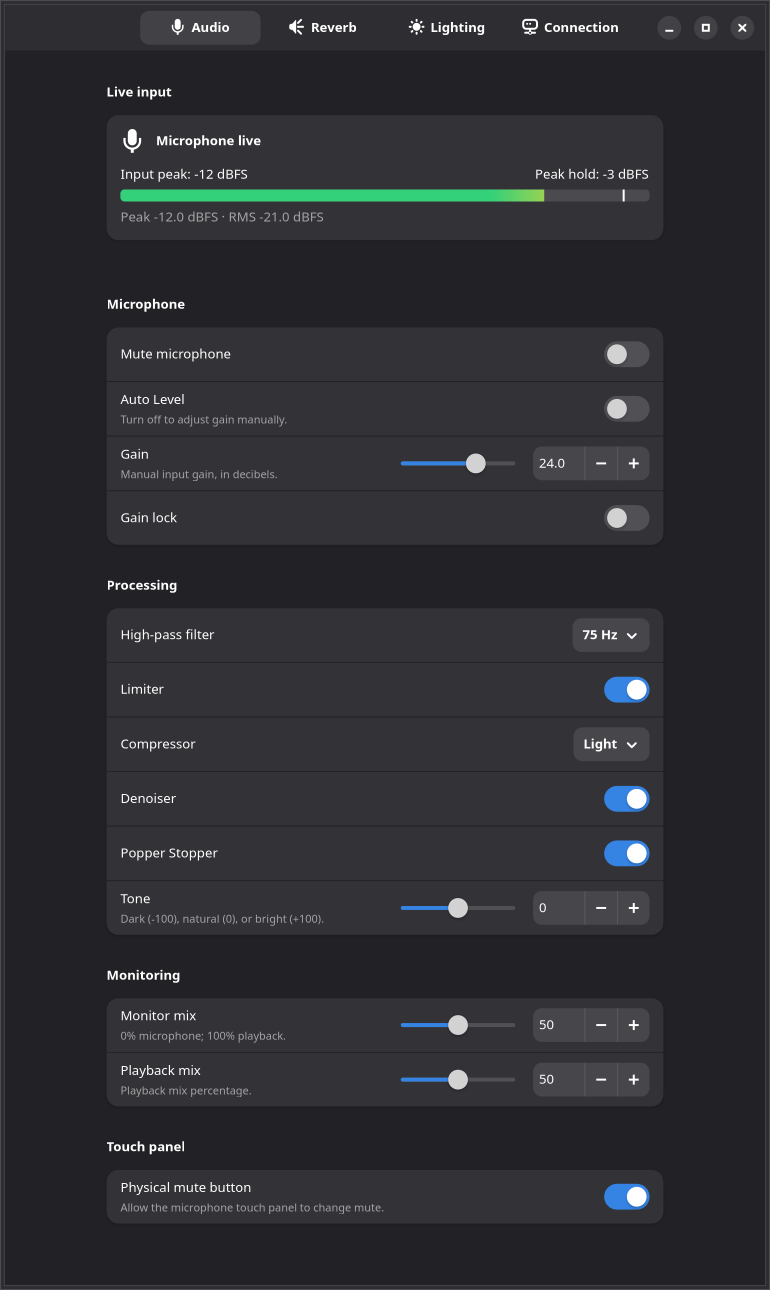
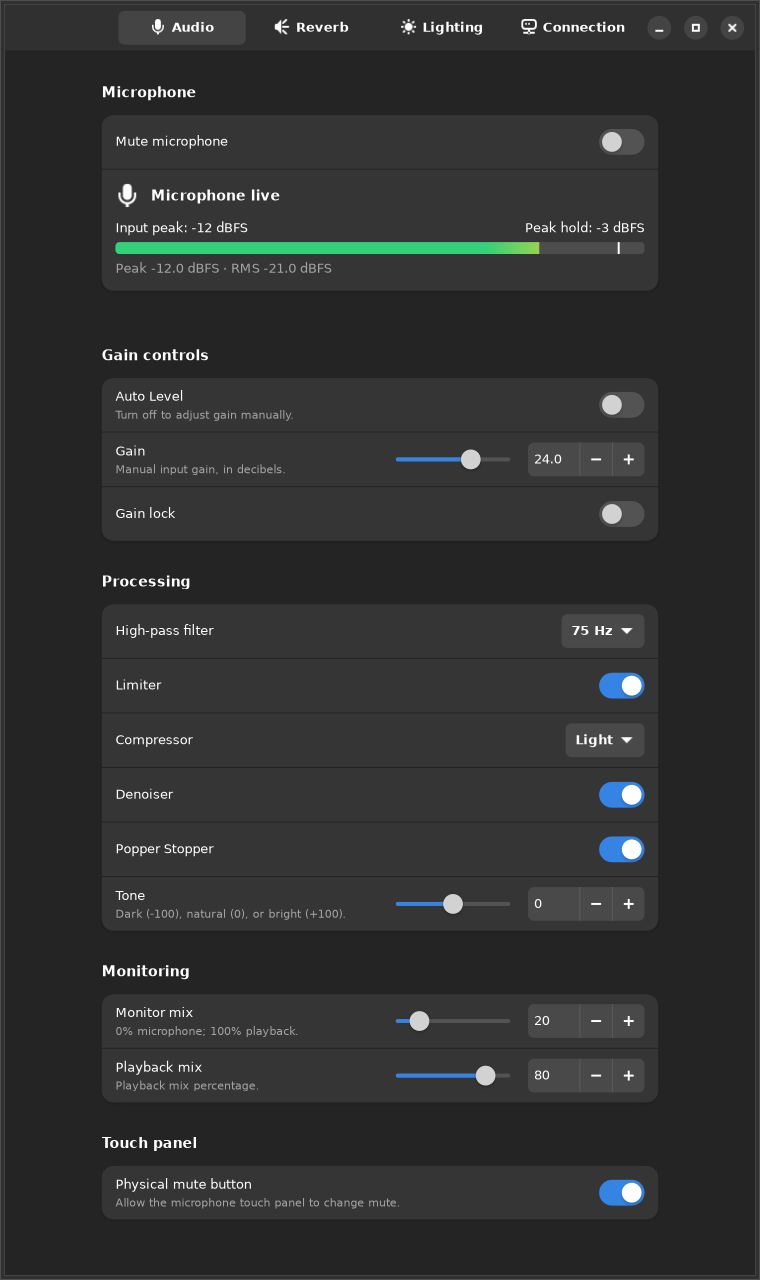
Put hardware mute before GNOME input meters
Keep gain controls below the live meter in the native app and Shell menu. Cover real control order, keyboard access and confirmed state behavior, refresh demo screenshots, and version packages as 0.3.4.

diff --git a/gnome-extension/tests/shell-layout.js b/gnome-extension/tests/shell-layout.js
@@ -80,6 +80,18 @@ function dimensions(extension, before, after) {
 }
 
 function checkContent(extension, meterEnabled, numbers) {
+    const fields = ['muted', 'auto_level', 'gain_db', 'gain_locked'];
+    const [mute, auto, gain, lock] = fields.map(field => {
+        const matches = extension._bindings.filter(binding => binding.field === field);
+        equal(matches.length, 1, `Exactly one ${field} control`);
+        return matches[0].item;
+    });
+    const rows = [mute, extension._meterRow, extension._meterDetail, extension._meterSwitch, auto, gain, lock];
+    for (let i = 1; i < rows.length; i++) {
+        const prior = allocation(rows[i - 1]), next = allocation(rows[i]);
+        assert(prior.y + prior.height <= next.y,
+            'Actual popup allocation must be Mute, live meter, then gain controls');
+    }
     equal(extension._levelLabel.visible, meterEnabled && numbers, 'Numeric preference');
     if (extension._levelLabel.visible)
         textFits(extension._levelLabel);
@@ -164,6 +176,34 @@ async function screenshot(extension) {
     return metrics;
 }
 
+async function checkControls(extension) {
+    const sent = [];
+    extension._client = {send: (action, params) => { sent.push({action, params}); return true; }};
+    const mute = extension._bindings.find(binding => binding.field === 'muted');
+    const gain = extension._bindings.find(binding => binding.field === 'gain_db');
+    extension._update({connection: 'connected', state: demoState});
+    mute.item.activate({type: () => Clutter.EventType.KEY_PRESS, get_key_symbol: () => Clutter.KEY_space});
+    equal(sent, [{action: 'set_mute', params: {value: true}}], 'Hardware mute command');
+    equal(extension._status.label.text, 'MV7+ microphone live', 'Mute must wait for hardware confirmation');
+    extension._update({connection: 'connected', state: {...demoState, muted: true}});
+    equal(extension._status.label.text, 'MV7+ microphone muted', 'Confirmed hardware mute');
+    for (const flags of [{auto_level: true}, {gain_locked: true}]) {
+        extension._update({connection: 'connected', state: {...demoState, ...flags}});
+        assert(!gain.slider.reactive && !gain.slider.can_focus, 'Locked/automatic gain must stay disabled');
+        extension._send(gain, 15);
+        equal(sent.length, 1, 'Disabled gain must not send a command');
+    }
+    extension._update({connection: 'connected', state: demoState});
+    extension._debounce(gain, 15);
+    extension._update({connection: 'disconnected', state: null});
+    await delay(250);
+    equal(sent.length, 1, 'Disconnect must cancel pending gain writes');
+    equal(extension._pending.size, 0, 'Disconnect must clear pending writes');
+    assert(!mute.item.reactive, 'Disconnected mute must be disabled');
+    extension._client = null;
+    extension._update({connection: 'connected', state: demoState});
+}
+
 export async function run(extension) {
     Main.overview.hide();
     extension._fillIcon.connect('repaint', actor => painted.set(actor, actor.get_surface_size()));
@@ -183,6 +223,7 @@ export async function run(extension) {
     let samples = 0;
     extension._button.menu.open();
     await delay(500);
+    await checkControls(extension);
     for (const [scale, large] of [[1, false], [2, false], [2, true], [1, true], [1, false]]) {
         context.scale_factor = scale;
         context.set_font(large ? Pango.FontDescription.from_string('DejaVu Serif 15') : originalFont);
@@ -263,6 +304,15 @@ export async function run(extension) {
         equal(relayouts, 0, 'Idle relayout loop');
         extension._button.disconnect(handler);
         const scroll = extension._button.menu.box.get_parent();
+        const mute = extension._bindings.find(binding => binding.field === 'muted').item;
+        const auto = extension._bindings.find(binding => binding.field === 'auto_level').item;
+        mute.grab_key_focus();
+        assert(extension._button.menu.box.navigate_focus(mute, St.DirectionType.TAB_FORWARD, false),
+            'Keyboard navigation from mute failed');
+        assert(global.stage.get_key_focus() === extension._meterSwitch, 'Meter toggle follows hardware mute');
+        assert(extension._button.menu.box.navigate_focus(extension._meterSwitch, St.DirectionType.TAB_FORWARD, false),
+            'Keyboard navigation from meter toggle failed');
+        assert(global.stage.get_key_focus() === auto, 'Auto Level follows the live input controls');
         const lastItem = extension._button.menu.box.get_last_child();
         lastItem.grab_key_focus();
         await delay(200);
@@ -270,8 +320,11 @@ export async function run(extension) {
         const focused = allocation(lastItem);
         assert(focused.y >= viewport.y && focused.y + focused.height <= viewport.y + viewport.height,
             'Keyboard focus did not scroll the last menu item into view');
-        extension._meterSwitch.grab_key_focus();
+        mute.grab_key_focus();
         await delay(200);
+        const muteBox = allocation(mute);
+        assert(muteBox.y >= viewport.y && muteBox.y + muteBox.height <= viewport.y + viewport.height,
+            'Keyboard focus did not return the first mute control to view');
         const adjustment = scroll.get_vadjustment
             ? scroll.get_vadjustment() : scroll.get_vscroll_bar().get_adjustment();
         adjustment.value = 0;

diff --git a/gnome-app/controls.js b/gnome-app/controls.js
@@ -8,9 +8,9 @@ export const PAGES = [
 
 export const CONTROLS = [
     {page: 'audio', group: 'Microphone', field: 'muted', action: 'set_mute', title: 'Mute microphone', kind: 'switch'},
-    {page: 'audio', group: 'Microphone', field: 'auto_level', action: 'set_auto_level', title: 'Auto Level', subtitle: 'Turn off to adjust gain manually.', kind: 'switch'},
-    {page: 'audio', group: 'Microphone', field: 'gain_db', action: 'set_gain', title: 'Gain', subtitle: 'Manual input gain, in decibels.', kind: 'range', min: 0, max: 36, step: 0.5},
-    {page: 'audio', group: 'Microphone', field: 'gain_locked', action: 'set_gain_locked', title: 'Gain lock', kind: 'switch'},
+    {page: 'audio', group: 'Gain controls', field: 'auto_level', action: 'set_auto_level', title: 'Auto Level', subtitle: 'Turn off to adjust gain manually.', kind: 'switch'},
+    {page: 'audio', group: 'Gain controls', field: 'gain_db', action: 'set_gain', title: 'Gain', subtitle: 'Manual input gain, in decibels.', kind: 'range', min: 0, max: 36, step: 0.5},
+    {page: 'audio', group: 'Gain controls', field: 'gain_locked', action: 'set_gain_locked', title: 'Gain lock', kind: 'switch'},
     {page: 'audio', group: 'Processing', field: 'hpf', action: 'set_hpf', title: 'High-pass filter', kind: 'choice', options: ['Off', '75 Hz', '150 Hz']},
     {page: 'audio', group: 'Processing', field: 'limiter', action: 'set_limiter', title: 'Limiter', kind: 'switch'},
     {page: 'audio', group: 'Processing', field: 'compressor', action: 'set_compressor', title: 'Compressor', kind: 'choice', options: ['Off', 'Light', 'Medium', 'Heavy']},

diff --git a/gnome-app/application.js b/gnome-app/application.js
@@ -120,8 +120,7 @@ class MV7Application extends Adw.Application {
             title: 'Microphone status and input level',
             child: liveContent, activatable: false, selectable: false,
         });
-        this._liveGroup = new Adw.PreferencesGroup({title: 'Live input'});
-        this._liveGroup.add(this._liveRow);
+        this._liveGroup = new Adw.PreferencesGroup({title: 'Microphone'});
         this._livePage = new Adw.PreferencesPage({vexpand: false});
         this._livePage.add(this._liveGroup);
         layout.append(this._livePage);
@@ -137,6 +136,10 @@ class MV7Application extends Adw.Application {
             this._stack.add_titled_with_icon(widget, page.id, page.title, page.icon);
         }
         for (const control of CONTROLS) {
+            if (control.field === 'muted') {
+                this._addControl(this._liveGroup, control);
+                continue;
+            }
             const key = `${control.page}/${control.group}`;
             if (!groups.has(key)) {
                 const group = new Adw.PreferencesGroup({title: control.group});
@@ -145,6 +148,7 @@ class MV7Application extends Adw.Application {
             }
             this._addControl(groups.get(key), control);
         }
+        this._liveGroup.add(this._liveRow);
         this._buildConnectionPage();
         this._applySnapshot(this._snapshot);
         this._window.present();

diff --git a/gnome-extension/extension.js b/gnome-extension/extension.js
@@ -71,6 +71,7 @@ export default class MV7Extension extends Extension {
         this._error.label_actor = this._error.label;
         this._error.visible = false;
         this._button.menu.addMenuItem(this._error);
+        this._switch(this._button.menu, 'Mute microphone', 'muted', 'set_mute');
         this._meterRow = new PopupMenu.PopupBaseMenuItem({reactive: false, can_focus: false});
         this._meterTitle = new LevelLabel({text: 'Input peak: -- dBFS'}, 'Input peak: ');
         this._meterBar = new BarLevel({style_class: 'slider mv7-meter-bar', x_expand: true});
@@ -95,7 +96,6 @@ export default class MV7Extension extends Extension {
         this._button.menu.addMenuItem(this._meterSwitch);
         this._button.menu.addMenuItem(new PopupMenu.PopupSeparatorMenuItem());
 
-        this._switch(this._button.menu, 'Mute microphone', 'muted', 'set_mute');
         this._switch(this._button.menu, 'Auto Level', 'auto_level', 'set_auto_level');
         this._range(this._button.menu, 'Gain', 'gain_db', 'set_gain', 0, 36, 0.5, ' dB');
         this._switch(this._button.menu, 'Gain lock', 'gain_locked', 'set_gain_locked');

diff --git a/README.md b/README.md
@@ -17,10 +17,11 @@ Shure and MV7+ are trademarks of Shure Incorporated.
 
 | Native GNOME app | Shell quick controls |
 | --- | --- |
-| <img src="docs/gnome-app.png" width="440" alt="MV7+ Control app with live-input peak hold, gain, processing, and monitoring controls"> | <img src="docs/gnome-panel.png" width="280" alt="GNOME panel microphone indicator and open MV7+ menu with input peak, hardware mute, gain, and monitor mix"> |
+| <img src="docs/gnome-app.png" width="440" alt="MV7+ Control app with hardware mute above live input, followed by gain, processing, and monitoring controls"> | <img src="docs/gnome-panel.png" width="280" alt="GNOME panel microphone indicator and open MV7+ menu with mute above the input meter and gain controls"> |
 
 The GNOME screenshots show **demo readings**, not a live microphone. The app
 provides the full controls; the Shell menu keeps common adjustments close at hand.
+Both put hardware mute first, above the live meter, with gain controls below.
 Hardware mute and measured input peak are distinct. Panel numbers are optional
 and off by default.
 
@@ -60,7 +61,7 @@ cd mv7-linux-support
 ```bash
 sudo dnf install golang rpm-build desktop-file-utils systemd-rpm-macros glib2
 ./packaging/fedora/build-rpm.sh
-sudo dnf install ./dist/RPMS/shure-mv7-0.3.3-1.*.rpm
+sudo dnf install ./dist/RPMS/shure-mv7-0.3.4-1.*.rpm
 ```
 
 ### Ubuntu / Debian
@@ -68,7 +69,7 @@ sudo dnf install ./dist/RPMS/shure-mv7-0.3.3-1.*.rpm
 ```bash
 sudo apt install golang-go dpkg-dev libglib2.0-bin
 ./packaging/ubuntu/build-deb.sh
-sudo apt install ./dist/DEBS/shure-mv7_0.3.3-1_*.deb
+sudo apt install ./dist/DEBS/shure-mv7_0.3.4-1_*.deb
 ```
 
 If you already have a built package, only the final install command is needed.
@@ -258,6 +259,8 @@ gjs -m gnome-app/main.js
 `gjs -m gnome-app/tests/widgets.gjs` checks GTK widgets with a mocked connection;
 `gjs -m gnome-extension/tests/live.gjs` checks a loopback WebSocket fixture.
 Neither replaces testing with a real microphone.
+Set `MV7_WIDGET_SCREENSHOT` to a PNG output path to capture the real native
+window with demo readings after its widget checks.
 
 The opt-in layout regression runs the complete extension with synthetic data in
 a headless GNOME Shell, checking real panel/menu allocations, themes, scaling,
